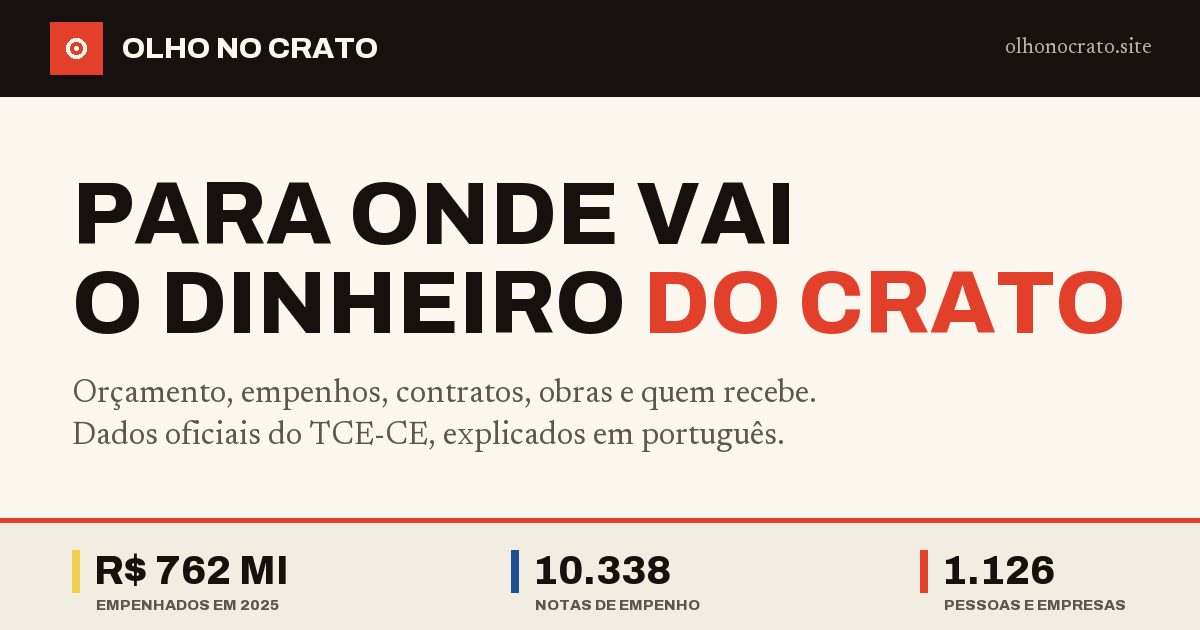
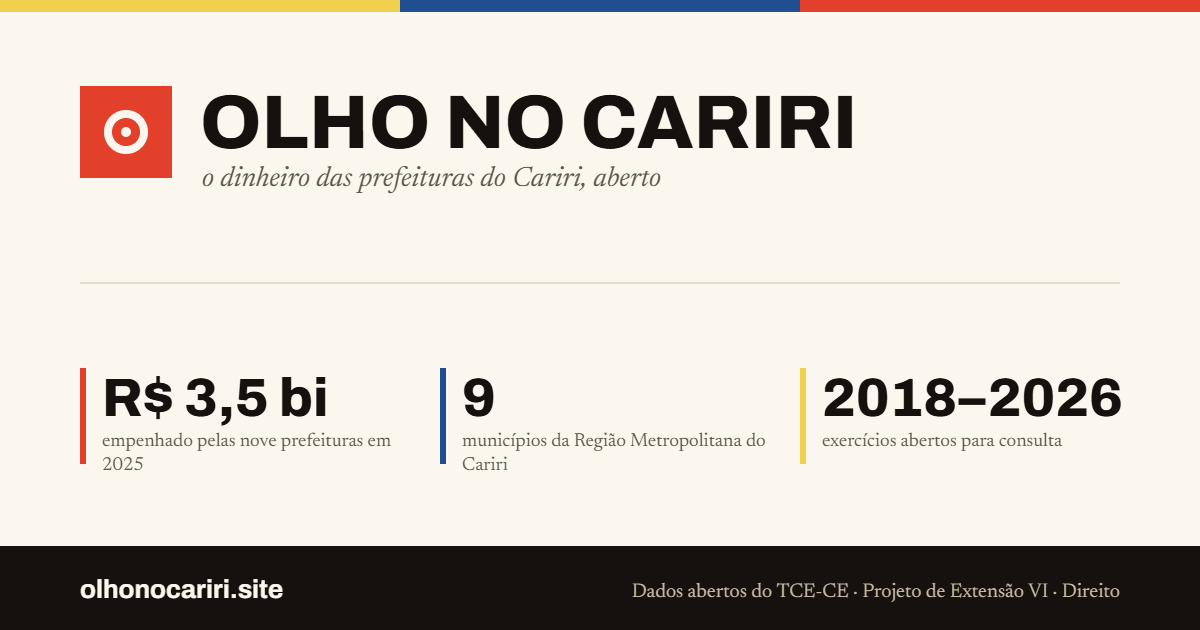
Imagem de compartilhamento refeita: nove municípios em vez de um
O cartão que o WhatsApp e as redes mostravam ainda dizia "Olho no Crato: R$ 762
milhões empenhados em 2025". Era a última coisa do site que falava de uma
cidade só, e a mais visível para quem ainda não entrou: o link circula mais do
que a página.

O novo traz R$ 3,5 bilhões empenhados pelas nove prefeituras em 2025, os nove
municípios e o período aberto para consulta, de 2018 a 2026. O valor foi
apurado somando o balancete de dezembro de 2025 de cada município, o mesmo
caminho que o Panorama faz. Confere com o cartão antigo: o Crato sozinho dá os
mesmos R$ 762 milhões de antes.

Vem junto a receita que o gerou, em ferramentas/gerar-compartilhar.html. É
página e não script de Node porque o cartão é tipografia, e as regras do
handoff valem aqui como valem na tela: Archivo na marca e nos números,
Newsreader no texto corrido e nas notas, caixa alta condensada, cantos retos,
sem sombra e sem gradiente. Rasterizar fonte fora do navegador exigiria
biblioteca, e este projeto não tem nenhuma. Desenha em canvas, espera as fontes
carregarem antes de desenhar — sem isso o cartão sai com as substitutas, que é
pior que não sair — e oferece o download.

A faixa do topo repete a ordem das etapas da despesa, milho, azul e vermelhão,
e cada bloco de número carrega a cor da sua etapa. É a mesma gramática de cor
do site, de modo que quem vê o cartão e depois entra reconhece o lugar.

Os números não se atualizam sozinhos: ficam numa constante no alto do arquivo,
[…]

diff --git a/ferramentas/gerar-compartilhar.html b/ferramentas/gerar-compartilhar.html
@@ -1,0 +1,188 @@
+<!doctype html>
+<html lang="pt-BR">
+<head>
+<meta charset="utf-8">
+<title>Gerar a imagem de compartilhamento</title>
+<!--
+  Desenha compartilhar.png, a imagem que o WhatsApp e as redes mostram quando
+  alguém cola o link do site.
+
+  É página e não script de Node porque o cartão é tipografia: Archivo para
+  marca e números, Newsreader para texto corrido, exatamente como o resto do
+  sistema. Rasterizar fonte fora do navegador exigiria biblioteca, e este
+  projeto não tem nenhuma.
+
+  Como usar:
+    node ferramentas/servidor.mjs
+    abrir http://localhost:5510/ferramentas/gerar-compartilhar.html
+    clicar em Baixar e substituir compartilhar.png na raiz
+
+  Os números não se atualizam sozinhos: estão em DADOS, logo abaixo, e foram
+  medidos somando o balancete de dezembro dos nove municípios. Refazer a conta
+  é o mesmo caminho que o Panorama faz, um exercício por município.
+-->
+<link rel="preconnect" href="https://fonts.googleapis.com">
+<link rel="preconnect" href="https://fonts.gstatic.com" crossorigin>
+<link href="https://fonts.googleapis.com/css2?family=Archivo:wght@400;600;700;800&family=Newsreader:ital,opsz,wght@0,6..72,400;1,6..72,400&display=swap" rel="stylesheet">
+<style>
+  body { background: #2a2420; color: #FBF7EE; font-family: Archivo, sans-serif;
+         margin: 0; padding: 24px; }
+  canvas { width: 600px; height: 315px; display: block; border: 1px solid #555; }
+  p { font-size: 13px; line-height: 1.6; max-width: 600px; }
+  button { font: inherit; padding: 8px 16px; margin-top: 12px; cursor: pointer; }
+</style>
+</head>
+<body>
+<canvas id="tela" width="1200" height="630"></canvas>
+<p id="estado">Carregando as fontes...</p>
+<button id="baixar" type="button">Baixar compartilhar.png</button>
+
+<script>
+// Medidos em 09/11/2026, somando o balancete de dezembro de 2025 dos nove
+// municípios da Região Metropolitana do Cariri.
+const DADOS = {
+  valor: 'R$ 3,5 bi',
+  valorNota: 'empenhado pelas nove prefeituras em 2025',
+  municipios: '9',
+  municipiosNota: 'municípios da Região Metropolitana do Cariri',
+  periodo: '2018–2026',
+  periodoNota: 'exercícios abertos para consulta',
+};
+
+const COR = {
+  fundo: '#FBF7EE',
+  carvao: '#16110E',
+  vermelhao: '#E2402A',
+  vermelhaoForte: '#B22F1D',
+  creme: '#FBF7EE',
+  suave: '#5E564C',
+  milho: '#F0D14E',
+  azul: '#1D4F91',
+};
+
+function olho(ctx, x, y, lado) {
+  // o mesmo símbolo do cabeçalho e do favicon: quadrado cheio, anel vazado
+  ctx.fillStyle = COR.vermelhao;
+  ctx.fillRect(x, y, lado, lado);
+  const c = lado / 2;
+  ctx.strokeStyle = COR.creme;
+  ctx.lineWidth = lado * 0.087;
+  ctx.beginPath();
+  ctx.arc(x + c, y + c, lado * 0.196, 0, Math.PI * 2);
+  ctx.stroke();
+  ctx.fillStyle = COR.creme;
+  ctx.beginPath();
+  ctx.arc(x + c, y + c, lado * 0.054, 0, Math.PI * 2);
+  ctx.fill();
+}
+
+function bloco(ctx, x, y, largura, cor, valor, nota) {
+  ctx.fillStyle = cor;
+  ctx.fillRect(x, y, 6, 96);
+
+  ctx.fillStyle = COR.carvao;
+  ctx.font = '800 54px Archivo';
+  ctx.textBaseline = 'alphabetic';
+  ctx.fillText(valor, x + 22, y + 48);
+
+  ctx.fillStyle = COR.suave;
+  ctx.font = '400 19px Newsreader';
+  // a nota quebra em duas linhas quando não cabe
+  const palavras = nota.split(' ');
+  let linha = '';
+  let alturaLinha = y + 78;
+  for (const palavra of palavras) {
+    const tentativa = linha ? linha + ' ' + palavra : palavra;
+    if (ctx.measureText(tentativa).width > largura - 30 && linha) {
+      ctx.fillText(linha, x + 22, alturaLinha);
+      linha = palavra;
+      alturaLinha += 24;
+    } else {
+      linha = tentativa;
+    }
+  }
+  if (linha) ctx.fillText(linha, x + 22, alturaLinha);
+}
+
+function desenhar() {
+  const tela = document.getElementById('tela');
+  const ctx = tela.getContext('2d');
+
+  ctx.fillStyle = COR.fundo;
+  ctx.fillRect(0, 0, 1200, 630);
+
+  // faixa de cor no alto, uma por etapa da despesa, na ordem do sistema
+  const faixas = [COR.milho, COR.azul, COR.vermelhao];
+  for (let i = 0; i < 3; i += 1) {
+    ctx.fillStyle = faixas[i];
+    ctx.fillRect(i * 400, 0, 400, 12);
+  }
+
+  olho(ctx, 80, 86, 92);
+
+  ctx.fillStyle = COR.carvao;
+  ctx.font = '800 76px Archivo';
+  ctx.textBaseline = 'alphabetic';
+  ctx.fillText('OLHO NO CARIRI', 200, 148);
+
+  ctx.fillStyle = COR.suave;
+  ctx.font = 'italic 400 28px Newsreader';
+  ctx.fillText('o dinheiro das prefeituras do Cariri, aberto', 202, 186);
+
+  // régua
+  ctx.fillStyle = '#E4DCCB';
+  ctx.fillRect(80, 282, 1040, 2);
+
+  // Os blocos ficam mais perto do rodapé que da régua de propósito: com eles no
+  // meio exato sobrava um vão morto embaixo, e o cartão parecia cortado.
+  const largura = 340;
+  bloco(ctx, 80, 368, largura, COR.vermelhao, DADOS.valor, DADOS.valorNota);
+  bloco(ctx, 440, 368, largura, COR.azul, DADOS.municipios, DADOS.municipiosNota);
+  bloco(ctx, 800, 368, largura, COR.milho, DADOS.periodo, DADOS.periodoNota);
+
+  // rodapé
+  ctx.fillStyle = COR.carvao;
+  ctx.fillRect(0, 546, 1200, 84);
+
+  ctx.fillStyle = COR.creme;
+  ctx.font = '700 26px Archivo';
+  ctx.fillText('olhonocariri.site', 80, 598);
+
+  ctx.fillStyle = '#C9BCA8';
+  ctx.font = '400 20px Newsreader';
+  const direita = 'Dados abertos do TCE-CE · Projeto de Extensão VI · Direito';
+  const largTexto = ctx.measureText(direita).width;
+  ctx.fillText(direita, 1120 - largTexto, 597);
+}
+
+async function iniciar() {
+  const estado = document.getElementById('estado');
+  try {
+    await document.fonts.load('800 76px Archivo');
+    await document.fonts.load('700 26px Archivo');
+    await document.fonts.load('800 54px Archivo');
+    await document.fonts.load('italic 400 28px Newsreader');
+    await document.fonts.load('400 20px Newsreader');
+    await document.fonts.ready;
+  } catch (e) {
+    // sem as fontes o cartão sai com as substitutas, e isso é pior que não sair
+    estado.textContent = 'As fontes não carregaram: ' + e.message;
+    return;
+  }
+  desenhar();
+  const dados = document.getElementById('tela').toDataURL('image/png');
+  window.PNG = dados;
+  estado.textContent = 'Pronto. PNG com ' + dados.length + ' caracteres em base64.';
+}
+
+document.getElementById('baixar').addEventListener('click', () => {
+  const a = document.createElement('a');
+  a.href = window.PNG;
+  a.download = 'compartilhar.png';
+  a.click();
+});
+
+iniciar();
+</script>
+</body>
+</html>

diff --git a/index.html b/index.html
@@ -21,7 +21,7 @@
   <meta property="og:image" content="https://olhonocariri.site/compartilhar.png">
   <meta property="og:image:width" content="1200">
   <meta property="og:image:height" content="630">
-  <meta property="og:image:alt" content="Olho no Crato: R$ 762 milhões empenhados em 2025, 10.338 notas de empenho, 1.126 pessoas e empresas.">
+  <meta property="og:image:alt" content="Olho no Cariri: R$ 3,5 bilhões empenhados pelas nove prefeituras da Região Metropolitana do Cariri em 2025, com os exercícios de 2018 a 2026 abertos para consulta.">
   <meta name="twitter:card" content="summary_large_image">
   <meta name="twitter:title" content="Olho no Cariri: para onde vai o dinheiro das prefeituras do Cariri">
   <meta name="twitter:description" content="Orçamento, empenhos, contratos, obras e quem recebe. Dados oficiais do TCE-CE, explicados em português.">
